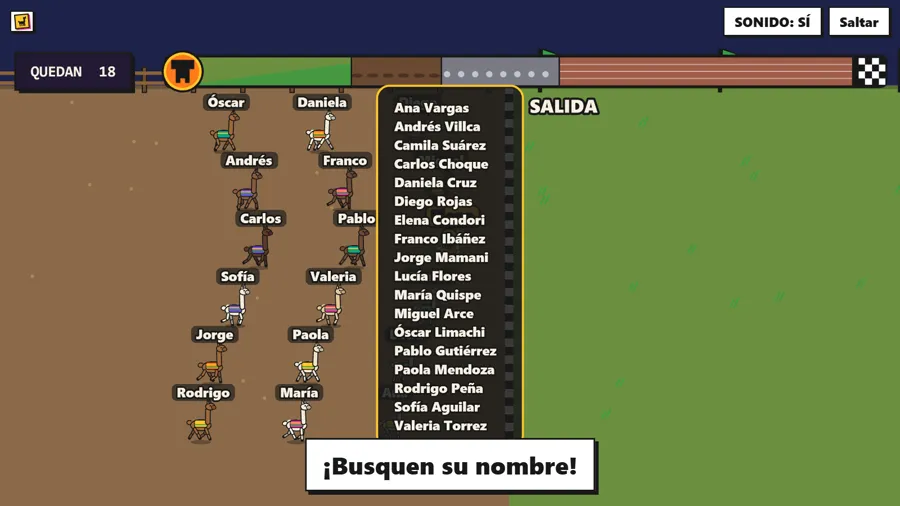
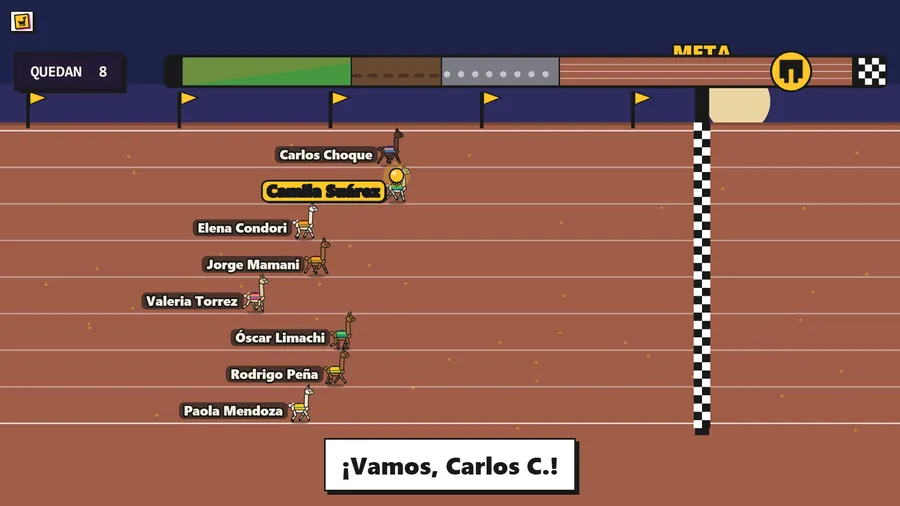
Las tarjetas de El show en la portada muestran una captura nítida de cada juego en su mejor momento, en el tema del sitio, y la carrera de la página de juegos ya no es la lista de salida

diff --git a/index.html b/index.html
@@ -134,14 +134,14 @@
     <h2 class="sec-t" data-i="pjT">Ocho juegos. Ninguno decide nada.</h2>
     <p class="sec-b" data-i="pjB">Tocá uno y miralo sortear con una lista de ejemplo, sin cuenta. Cuando arranca la animación el ganador ya salió: todos cuentan el mismo sorteo.</p>
     <div class="portada-juegos">
-      <a href="/?demo=race&amp;lead=3" data-thumb="race"><span data-i="gameRace">Carrera de llamas</span><span class="pj-ver" data-i="pjVer">Ver demo</span></a>
-      <a href="/?demo=sapo&amp;lead=3" data-thumb="sapo"><span data-i="gameSapo">Sapo</span><span class="pj-ver" data-i="pjVer">Ver demo</span></a>
-      <a href="/?demo=trompo&amp;lead=3" data-thumb="trompo"><span data-i="gameTrompo">Trompo</span><span class="pj-ver" data-i="pjVer">Ver demo</span></a>
-      <a href="/?demo=chovena&amp;lead=3" data-thumb="chovena"><span data-i="gameCho">Chovena</span><span class="pj-ver" data-i="pjVer">Ver demo</span></a>
-      <a href="/?demo=pinata&amp;lead=3" data-thumb="pinata"><span data-i="gamePinata">Piñata</span><span class="pj-ver" data-i="pjVer">Ver demo</span></a>
-      <a href="/?demo=wheel&amp;lead=3" data-thumb="wheel"><span data-i="gameWheel">Ruleta</span><span class="pj-ver" data-i="pjVer">Ver demo</span></a>
-      <a href="/?demo=teleferico&amp;lead=3" data-thumb="teleferico"><span data-i="gameTeleferico">Teleférico</span><span class="pj-ver" data-i="pjVer">Ver demo</span></a>
-      <a href="/?demo=oruro&amp;lead=3" data-thumb="oruro"><span data-i="gameOruro">La Entrada</span><span class="pj-ver" data-i="pjVer">Ver demo</span></a>
+      <a href="/?demo=race&amp;lead=3"><img class="pj-img pj-osc" src="/juegos/portada/race.webp" width="640" height="360" alt="" loading="lazy" decoding="async" /><img class="pj-img pj-cla" src="/juegos/portada/race-light.webp" width="640" height="360" alt="" loading="lazy" decoding="async" /><span data-i="gameRace">Carrera de llamas</span><span class="pj-ver" data-i="pjVer">Ver demo</span></a>
+      <a href="/?demo=sapo&amp;lead=3"><img class="pj-img pj-osc" src="/juegos/portada/sapo.webp" width="640" height="360" alt="" loading="lazy" decoding="async" /><img class="pj-img pj-cla" src="/juegos/portada/sapo-light.webp" width="640" height="360" alt="" loading="lazy" decoding="async" /><span data-i="gameSapo">Sapo</span><span class="pj-ver" data-i="pjVer">Ver demo</span></a>
+      <a href="/?demo=trompo&amp;lead=3"><img class="pj-img pj-osc" src="/juegos/portada/trompo.webp" width="640" height="360" alt="" loading="lazy" decoding="async" /><img class="pj-img pj-cla" src="/juegos/portada/trompo-light.webp" width="640" height="360" alt="" loading="lazy" decoding="async" /><span data-i="gameTrompo">Trompo</span><span class="pj-ver" data-i="pjVer">Ver demo</span></a>
+      <a href="/?demo=chovena&amp;lead=3"><img class="pj-img pj-osc" src="/juegos/portada/chovena.webp" width="640" height="360" alt="" loading="lazy" decoding="async" /><img class="pj-img pj-cla" src="/juegos/portada/chovena-light.webp" width="640" height="360" alt="" loading="lazy" decoding="async" /><span data-i="gameCho">Chovena</span><span class="pj-ver" data-i="pjVer">Ver demo</span></a>
+      <a href="/?demo=pinata&amp;lead=3"><img class="pj-img pj-osc" src="/juegos/portada/pinata.webp" width="640" height="360" alt="" loading="lazy" decoding="async" /><img class="pj-img pj-cla" src="/juegos/portada/pinata-light.webp" width="640" height="360" alt="" loading="lazy" decoding="async" /><span data-i="gamePinata">Piñata</span><span class="pj-ver" data-i="pjVer">Ver demo</span></a>
+      <a href="/?demo=wheel&amp;lead=3"><img class="pj-img pj-osc" src="/juegos/portada/wheel.webp" width="640" height="360" alt="" loading="lazy" decoding="async" /><img class="pj-img pj-cla" src="/juegos/portada/wheel-light.webp" width="640" height="360" alt="" loading="lazy" decoding="async" /><span data-i="gameWheel">Ruleta</span><span class="pj-ver" data-i="pjVer">Ver demo</span></a>
+      <a href="/?demo=teleferico&amp;lead=3"><img class="pj-img pj-osc" src="/juegos/portada/teleferico.webp" width="640" height="360" alt="" loading="lazy" decoding="async" /><img class="pj-img pj-cla" src="/juegos/portada/teleferico-light.webp" width="640" height="360" alt="" loading="lazy" decoding="async" /><span data-i="gameTeleferico">Teleférico</span><span class="pj-ver" data-i="pjVer">Ver demo</span></a>
+      <a href="/?demo=oruro&amp;lead=3"><img class="pj-img pj-osc" src="/juegos/portada/oruro.webp" width="640" height="360" alt="" loading="lazy" decoding="async" /><img class="pj-img pj-cla" src="/juegos/portada/oruro-light.webp" width="640" height="360" alt="" loading="lazy" decoding="async" /><span data-i="gameOruro">La Entrada</span><span class="pj-ver" data-i="pjVer">Ver demo</span></a>
     </div>
   </section>
 

diff --git a/src/styles.css b/src/styles.css
@@ -1301,7 +1301,15 @@
     min-height: 44px; transition: transform 0.12s ease, box-shadow 0.12s ease;
   }
   .portada-juegos a:hover { transform: translate(-2px, -2px); box-shadow: var(--sh); }
-  .portada-juegos canvas.thumb { width: 100%; height: auto; aspect-ratio: 16 / 9; display: block; border: 2px solid var(--ink); }
+  /* La captura de cada juego, una por tema: se ve la del tema efectivo del sitio (el del sistema o el que se elige con data-theme), no solo la del sistema. */
+  .portada-juegos .pj-img { width: 100%; height: auto; aspect-ratio: 16 / 9; display: block; border: 2px solid var(--ink); background: var(--field); }
+  .portada-juegos .pj-osc { display: none; }
+  @media (prefers-color-scheme: dark) {
+    :root:not([data-theme="light"]) .portada-juegos .pj-osc { display: block; }
+    :root:not([data-theme="light"]) .portada-juegos .pj-cla { display: none; }
+  }
+  :root[data-theme="dark"] .portada-juegos .pj-osc { display: block; }
+  :root[data-theme="dark"] .portada-juegos .pj-cla { display: none; }
   .portada-juegos .pj-ver { font-family: ui-monospace, Consolas, monospace; font-size: 14px; letter-spacing: 0.12em; text-transform: uppercase; color: var(--muted); font-weight: 700; }
   @media (max-width: 640px) { .portada-juegos { grid-template-columns: repeat(2, minmax(0, 1fr)); } }
 

diff --git a/src/games/pixi/stage.ts b/src/games/pixi/stage.ts
@@ -490,7 +490,7 @@ export async function mountPixi(beacon: Beacon, done: () => void, onSkip: () => 
   // (`window.__tinkazo`), para medir el zoom del golpe (`scripts/lib/zoom.mjs`).
   // Sin el parámetro no se expone nada.
   // Los campos «cartel» y «ganador» los llenan la corona y el juego (`ganadorEn`): dónde está el cartel y dónde quien gana.
-  if (params.get("auditar") === "camara") (window as unknown as { __tinkazo: unknown }).__tinkazo = { camara: cam, escena: scene, cartel: null, ganador: null, pantalla: () => ({ w: innerWidth, h: innerHeight, top: top(), bottom: bottom() }) };
+  if (params.get("auditar") === "camara") (window as unknown as { __tinkazo: unknown }).__tinkazo = { camara: cam, escena: scene, hud, cartel: null, ganador: null, pantalla: () => ({ w: innerWidth, h: innerHeight, top: top(), bottom: bottom() }) };
   // `?auditar=nino`: la foto de los cinco años no lleva letras (`scripts/audit-nino.mjs`).
   // Mientras `window.__nino.sinLetras` esté prendido, todo texto del motor queda sin
   // dibujar (`renderable`, no `visible`: los juegos mandan la visibilidad), y al
